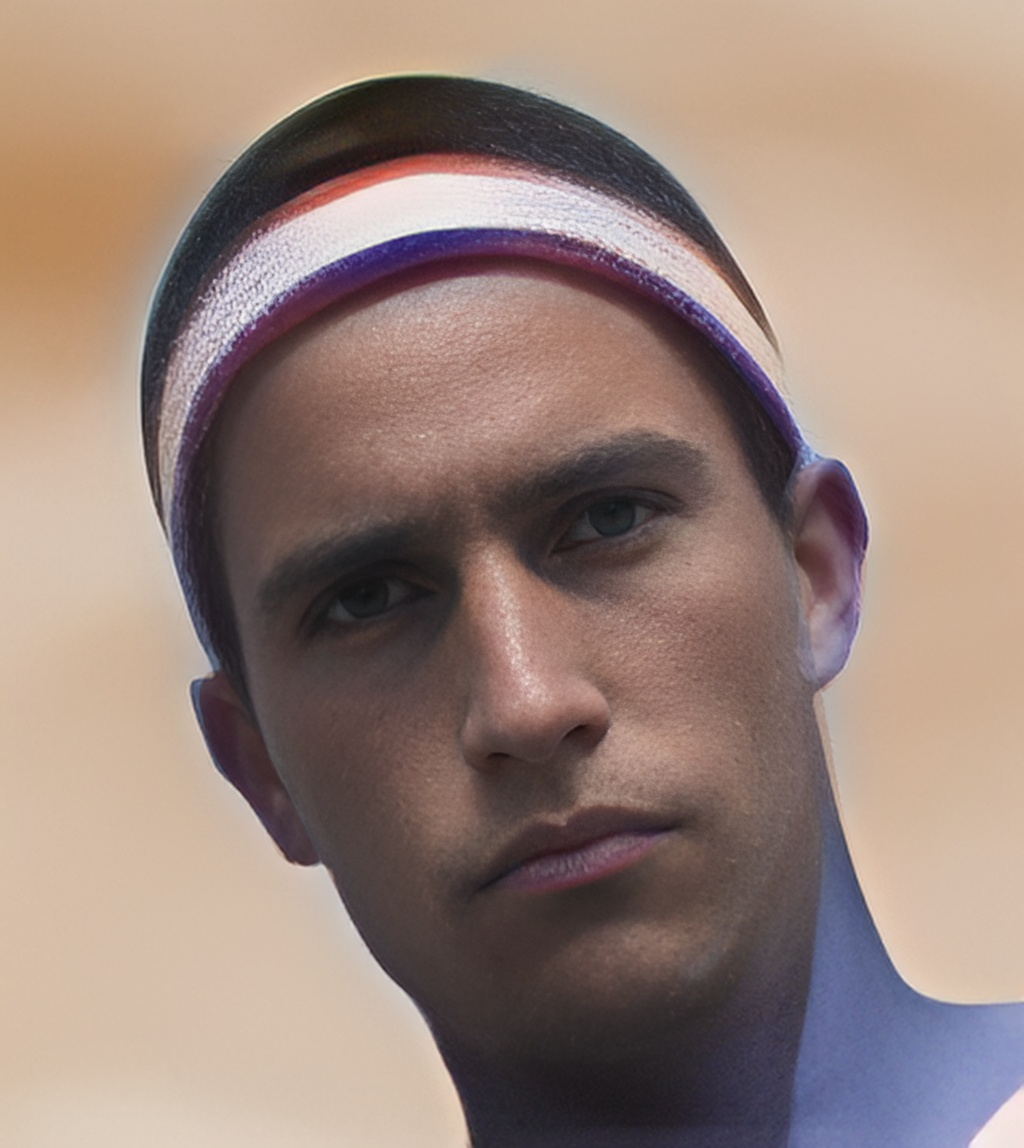
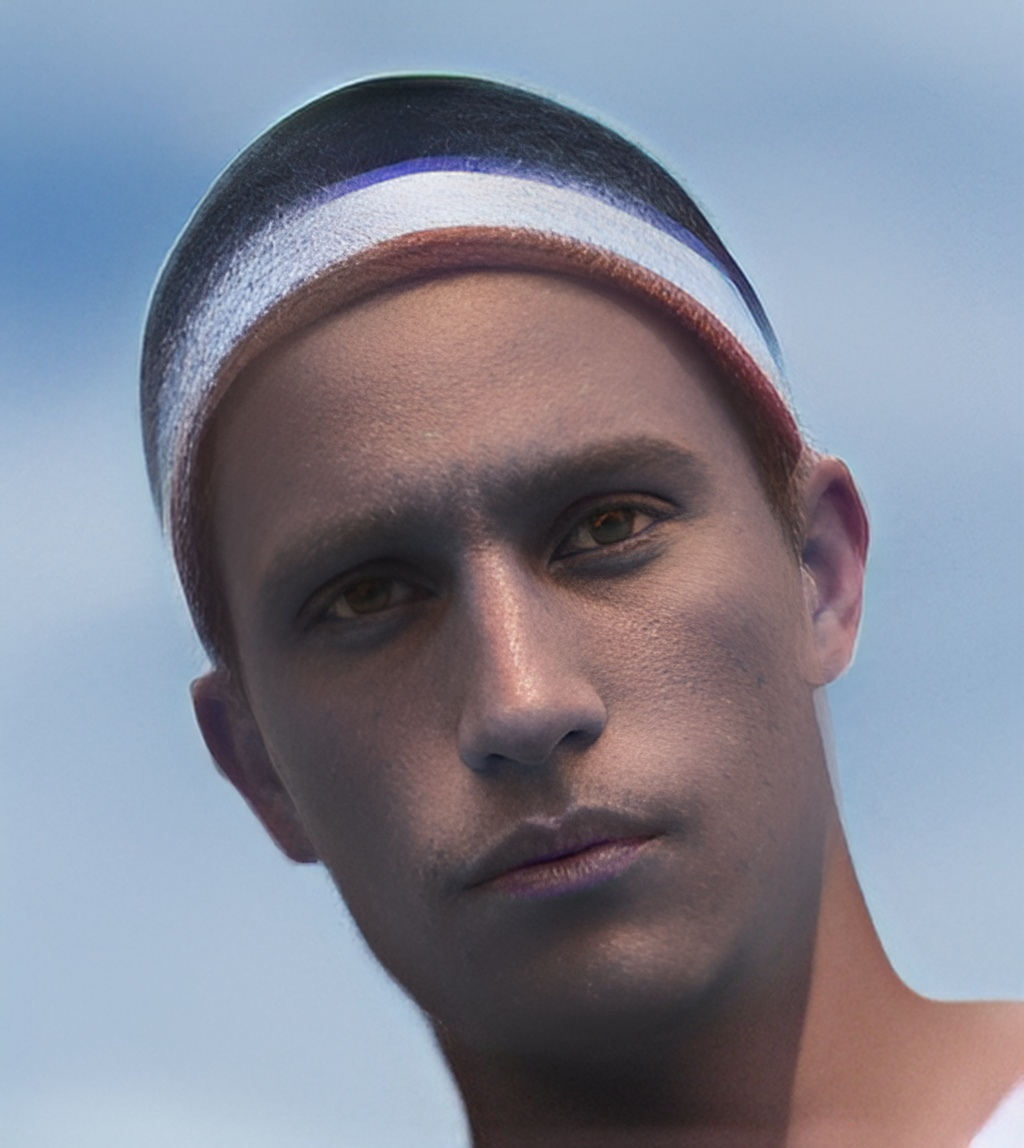
Removing hardcoded image from server

diff --git a/face_restoration_worker/utils/face_restoration_inference.py b/face_restoration_worker/utils/face_restoration_inference.py
@@ -103,10 +103,8 @@ def inference(
     draw_box = False
 
     # try:
-    source = "blurry_face.jpg"
-    img = cv2.imread(source, cv2.COLOR_BGR2RGB)
 
-    upscale = set_upscale(upscale, img)
+    upscale = set_upscale(upscale, image)
     if upscale == 1:
         background_enhance = False
         face_upsample = False
@@ -115,19 +113,19 @@ def inference(
     bg_upsampler = upsampler if background_enhance else None
     face_upsampler = upsampler if face_upsample else None
 
-    upscale = set_upscale(upscale, img)
+    upscale = set_upscale(upscale, image)
     if upscale == 1:
         background_enhance = False
         face_upsample = False
 
     if has_aligned:
-        img = cv2.resize(img, (512, 512), interpolation=cv2.INTER_LINEAR)
-        face_helper.is_gray = is_gray(img, threshold=5)
+        image = cv2.resize(image, (512, 512), interpolation=cv2.INTER_LINEAR)
+        face_helper.is_gray = is_gray(image, threshold=5)
         if face_helper.is_gray:
             print("\tgrayscale input: True")
-        face_helper.cropped_faces = [img]
+        face_helper.cropped_faces = [image]
     else:
-        face_helper.read_image(img)
+        face_helper.read_image(image)
         num_det_faces = face_helper.get_face_landmarks_5(
             only_center_face=only_center_face, resize=640, eye_dist_threshold=5
         )
@@ -144,19 +142,19 @@ def inference(
                 output = codeformer_net(
                     cropped_face_t, w=codeformer_fidelity, adain=True
                 )[0]
-                restored_face = tensor2img(output, rgb2bgr=False, min_max=(-1, 1))
+                restored_face = tensor2img(output, rgb2bgr=True, min_max=(-1, 1))
             del output
             torch.cuda.empty_cache()
         except RuntimeError as error:
             print(f"Failed inference for CodeFormer: {error}")
-            restored_face = tensor2img(cropped_face_t, rgb2bgr=False, min_max=(-1, 1))
+            restored_face = tensor2img(cropped_face_t, rgb2bgr=True, min_max=(-1, 1))
 
         restored_face = restored_face.astype("uint8")
         face_helper.add_restored_face(restored_face)
 
     if not has_aligned:
         if bg_upsampler is not None:
-            bg_img = bg_upsampler.enhance(img, outscale=upscale)[0]
+            bg_img = bg_upsampler.enhance(image, outscale=upscale)[0]
         else:
             bg_img = None
         face_helper.get_inverse_affine(None)

diff --git a/face_restoration_worker/server/grpc_server.py b/face_restoration_worker/server/grpc_server.py
@@ -23,7 +23,7 @@ class FaceRestorationService(face_restoration_pb2_grpc.FaceRestorationServiceSer
     def ApplyFaceRestoration(self, request, context):
         # try:
         img = np.array(request.image)
-        img_rgb = cv2.cvtColor(pickle.loads(img), cv2.IMREAD_COLOR)
+        img_rgb = cv2.cvtColor(pickle.loads(img), cv2.COLOR_BGR2RGB)
 
         restored_image_array = inference(img_rgb)
 

diff --git a/client.py b/client.py
@@ -94,7 +94,7 @@ def _run_worker_query(img: bytes) -> str:
     stub = face_restoration_pb2_grpc.FaceRestorationServiceStub(channel)
 
     source = "blurry_face.jpg"
-    image_array = cv.imread(source, cv.COLOR_BGR2RGB)
+    image_array = cv.imread(source)
 
     response = stub.ApplyFaceRestoration(
         face_restoration_pb2.FaceRestorationRequest(image=pickle.dumps(image_array))
